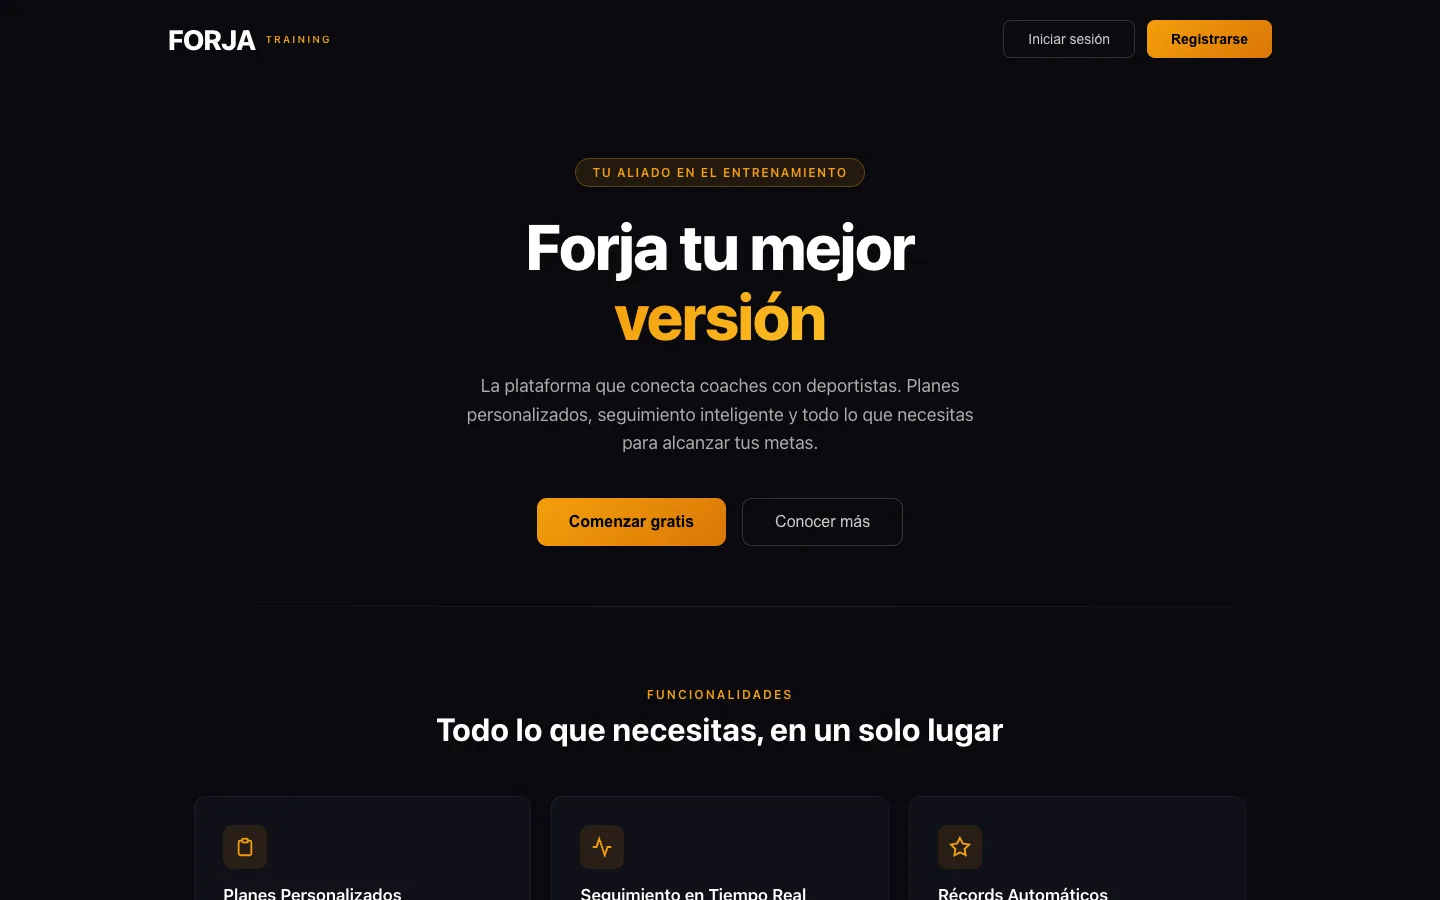
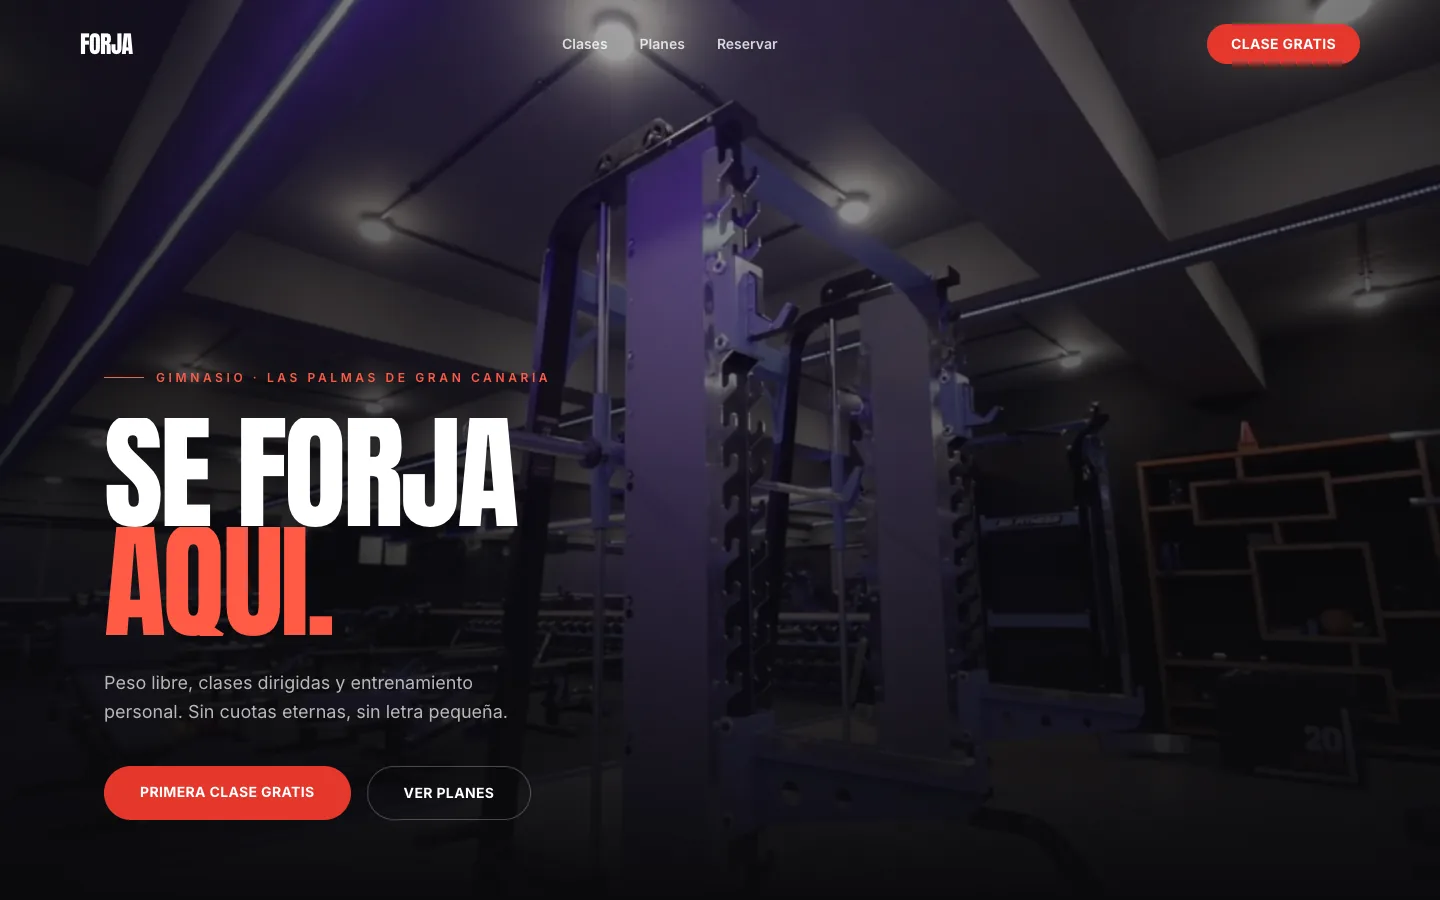
fix: Forja Training correcto en portfolio (gimnasio con vídeo)
La versión anterior apuntaba a un deploy viejo/ajeno (plataforma de
coaches). Actualizada a la web de gimnasio real (hero de vídeo, "Se forja
aquí") desplegada en forja-training-zeta.vercel.app, con captura, URL,
categoría y tags corregidos.

diff --git a/app/data/portfolio.ts b/app/data/portfolio.ts
@@ -26,13 +26,13 @@ export const portfolioProjects: PortfolioProject[] = [
   },
   {
     name: "Forja Training",
-    category: "Fitness · Plataforma para coaches y deportistas",
+    category: "Gimnasio · Web con vídeo + reservas",
     description:
-      "Plataforma web para gimnasios y entrenadores: planes personalizados, seguimiento en tiempo real y récords automáticos. Diseño oscuro premium con registro y panel. Entra y navégala: está publicada.",
-    tags: ["Diseño de producto", "Dashboard", "Next.js"],
+      "Web para gimnasio en Las Palmas con hero de vídeo a pantalla completa, clases, planes y reserva de clase online. Diseño oscuro y potente que transmite la energía del box. Entra y navégala: está publicada.",
+    tags: ["Vídeo hero", "Reservas", "Next.js"],
     image: "/portfolio/forja.webp",
-    url: "https://forja-training.vercel.app",
-    serviceSlugs: ["diseno-web-gran-canaria", "software-a-medida", "apps-web-progresivas"],
+    url: "https://forja-training-zeta.vercel.app",
+    serviceSlugs: ["diseno-web-gran-canaria", "identidad-visual-branding", "seo-posicionamiento-canarias"],
   },
   {
     name: "La Taberna El Tablero",

diff --git a/app/components/HeroV2.tsx b/app/components/HeroV2.tsx
@@ -12,7 +12,7 @@ const MOCKUPS = [
   { src: "/portfolio/taberna.webp", label: "La Taberna El Tablero", tag: "Restaurante" },
   { src: "/portfolio/cabana.webp", label: "Cabana by Efi", tag: "Gastrobar" },
   { src: "/portfolio/corona.webp", label: "Corona Roja", tag: "Ferretería" },
-  { src: "/portfolio/forja.webp", label: "Forja Training", tag: "Fitness" },
+  { src: "/portfolio/forja.webp", label: "Forja Training", tag: "Gimnasio" },
 ];
 
 /**
